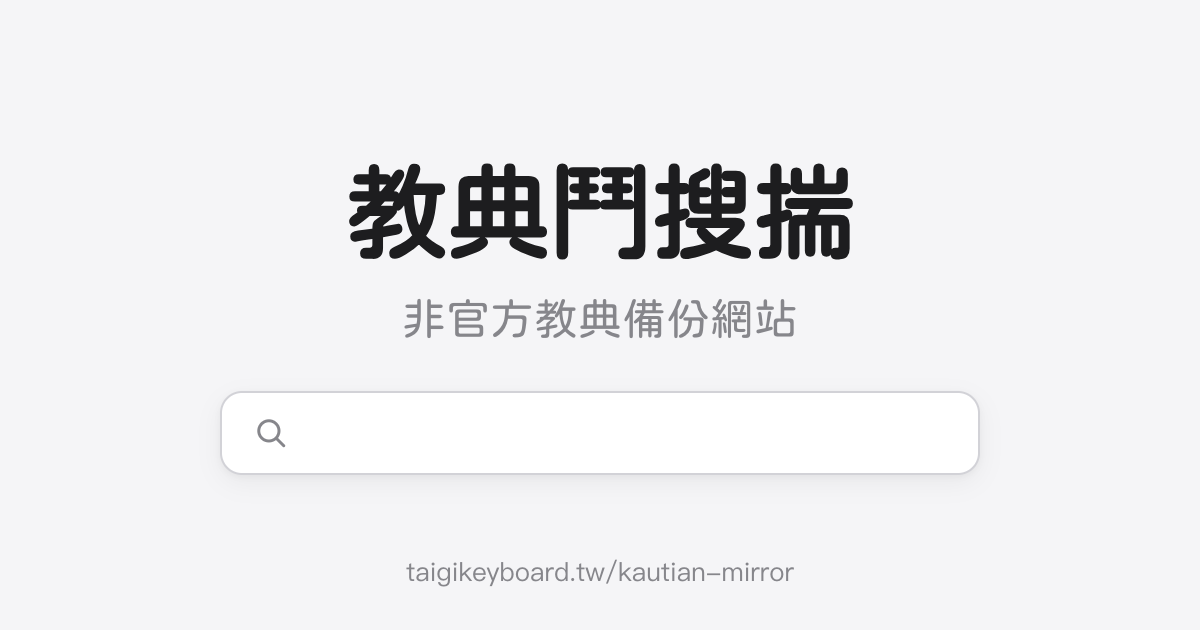
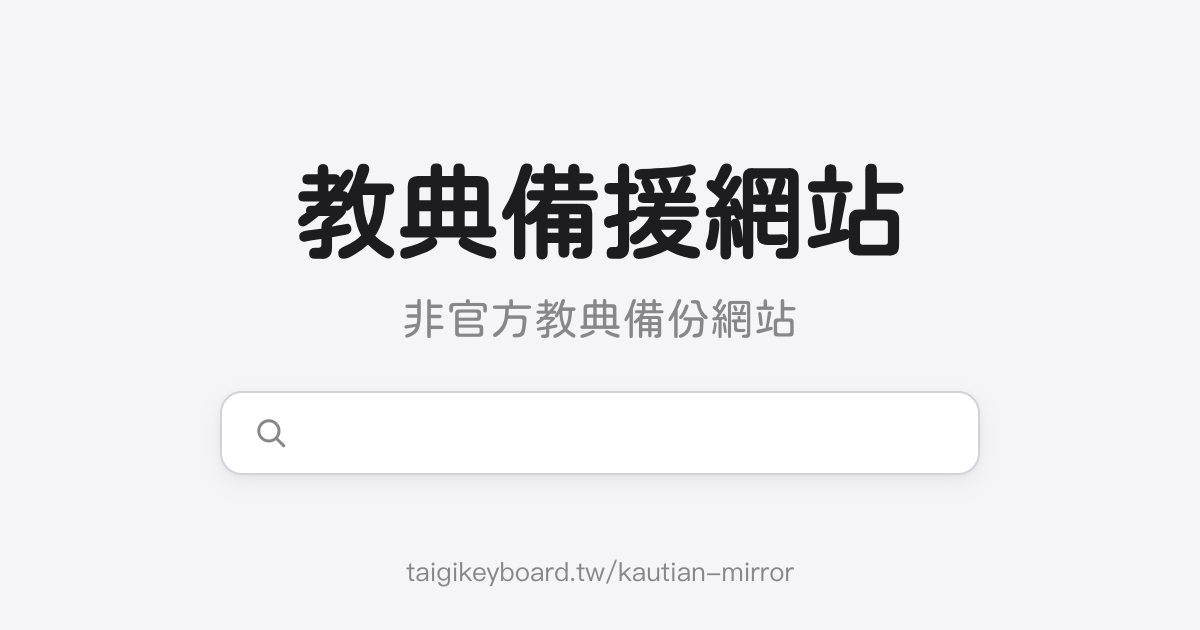
style: rename site 教典鬥搜揣 → 教典備援網站
Tab title, og:site_name, SITE_TITLE suffix, OG card. 台語辭典 keyword
stays in description, og:title, og:description, og:image:alt.

Claude-Session: https://claude.ai/code/session_01Fk6nqLfVDsMiBuaNH32Ao8

Changed region(s): [[0.2467, 0.2413, 0.7708, 0.4222]]

diff --git a/src/index.html b/src/index.html
@@ -5,10 +5,10 @@
   <meta name="viewport" content="width=device-width, initial-scale=1">
   <meta name="color-scheme" content="light dark">
   <meta name="description" content="台語辭典：教育部《臺灣台語常用詞辭典》搜尋。支援漢字、台羅、白話字、注音符號、方音符號。">
-  <title>教典備援網站｜台語辭典</title>
+  <title>教典備援網站</title>
   <!-- social previews: crawlers don't run JS, so every page shares this home card -->
   <meta property="og:type" content="website">
-  <meta property="og:site_name" content="教典鬥搜揣">
+  <meta property="og:site_name" content="教典備援網站">
   <meta property="og:title" content="教典備援網站｜台語辭典">
   <meta property="og:description" content="台語辭典：教育部《臺灣台語常用詞辭典》搜尋。支援漢字、台羅、白話字、注音符號、方音符號。">
   <meta property="og:url" content="https://taigikeyboard.tw/kautian-mirror/">

diff --git a/src/main.js b/src/main.js
@@ -8,8 +8,8 @@ import { initThemeToggle } from "./theme.js";
 const SUGGEST_LIMIT = 10;
 const RESULTS_LIMIT = 200;
 const DEBOUNCE_MS = 100;
-const SITE_TITLE = "教典鬥搜揣";
-const HOME_TITLE = "教典備援網站｜台語辭典";
+const SITE_TITLE = "教典備援網站";
+const HOME_TITLE = "教典備援網站";
 
 const input = document.getElementById("q");
 const form = input.form;

diff --git a/scripts/og-image.html b/scripts/og-image.html
@@ -47,7 +47,7 @@
   </style>
 </head>
 <body>
-  <h1>教典鬥搜揣</h1>
+  <h1>教典備援網站</h1>
   <p class="subtitle">非官方教典備份網站</p>
   <div class="search">
     <svg viewBox="0 0 16 16" aria-hidden="true">
